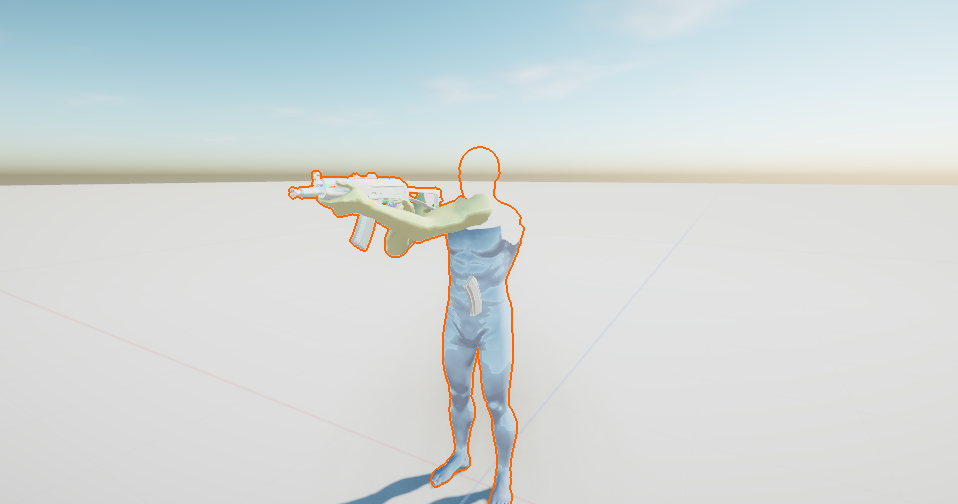
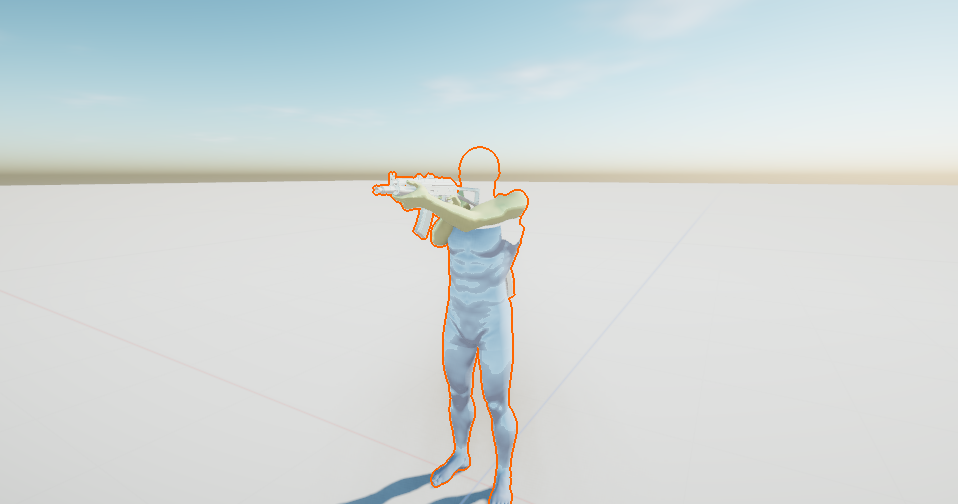
Tune camera-pivoted view rig for visible legs

Changed region(s): [[0.3027, 0.3274, 0.5752, 0.506], [0.4843, 0.5357, 0.5449, 0.625]]

diff --git a/tools/templates/SplitFirstPersonController.cs b/tools/templates/SplitFirstPersonController.cs
@@ -28,10 +28,12 @@ public class SplitFirstPersonController : MonoBehaviour
     public float movementDamping = 0.12f;
     public float maxPitch = 80f;
     public float maxYaw = 60f;
+    public float viewRigLowerOnLookDown = 0.35f;
 
     Animator bodyAnimator;
     Animator viewAnimator;
     InputActionAsset actions;
+    Vector3 viewRigBasePosition;
     float pitch;
     float yaw;
 
@@ -41,6 +43,7 @@ public class SplitFirstPersonController : MonoBehaviour
     {
         bodyAnimator = GetComponent<Animator>();
         viewAnimator = viewRig?.GetComponent<Animator>();
+        if (viewRig != null) viewRigBasePosition = viewRig.transform.localPosition;
         if (bodyAnimator == null) Debug.LogError("SplitFirstPersonController needs a body Animator.");
         if (viewAnimator == null) Debug.LogError("SplitFirstPersonController needs an assigned view-rig Animator.");
         try { actions = InputActionAsset.Load(inputActions); }
@@ -69,5 +72,11 @@ public class SplitFirstPersonController : MonoBehaviour
         pitch = Mathf.Clamp(pitch + look.y + lookKeys.y * lookKeySpeed * Time.deltaTime, -maxPitch, maxPitch);
         yaw = Mathf.Clamp(yaw + look.x + lookKeys.x * lookKeySpeed * Time.deltaTime, -maxYaw, maxYaw);
         if (cameraObject != null) cameraObject.transform.localRotation = Quaternion.Euler(pitch, yaw, 0f);
+        if (viewRig != null)
+        {
+            float down = Mathf.Clamp(-pitch / (maxPitch > 1f ? maxPitch : 1f), 0f, 1f);
+            viewRig.transform.localPosition = new Vector3(viewRigBasePosition.x,
+                viewRigBasePosition.y - viewRigLowerOnLookDown * down, viewRigBasePosition.z);
+        }
     }
 }

diff --git a/docs/animation-controller-rig-design.md b/docs/animation-controller-rig-design.md
@@ -2,7 +2,7 @@
 
 A first-person character has a **Body** Animator on the player root and a separate **View Rig** Animator under the player camera. The body owns the visible torso, pelvis, and legs and plays locomotion. The view rig owns the arms, weapon socket, and weapon meshes and plays the first-person animation. The camera remains a direct child of the player and copies the body head position; its rotation drives the child view rig around the camera pivot. An exposed local view-rig offset aligns each character's arms and weapon with that pivot. The head mesh can cast shadows without rendering inside the camera.
 
-Nested Animator ownership is a general engine rule: each Animator evaluates only skinned meshes in its own subtree up to another Animator. This supports independent character parts beyond the AK. [`SplitFirstPersonController.cs`](../tools/templates/SplitFirstPersonController.cs) is an example controller script. Its body/view/camera references, input asset and action names, locomotion parameter names, speeds, and pitch limits are configurable. It sets locomotion parameters on the body and rotates the camera; the view rig inherits that rotation through the scene hierarchy. The engine has no AK-specific movement or camera behavior.
+Nested Animator ownership is a general engine rule: each Animator evaluates only skinned meshes in its own subtree up to another Animator. This supports independent character parts beyond the AK. [`SplitFirstPersonController.cs`](../tools/templates/SplitFirstPersonController.cs) is an example controller script. Its body/view/camera references, input asset and action names, locomotion parameter names, speeds, pitch limits, and downward view-rig lowering distance are configurable. It sets locomotion parameters on the body and rotates the camera; the view rig inherits that rotation through the scene hierarchy. Looking steeply down lowers the view model within camera space so the legs remain visible. The engine has no AK-specific movement or camera behavior.
 
 The AK installer uses the existing mesh sections in the source FBX: Head and Body remain under the body rig, Arms move under the view rig, and the AK weapon stays on the view rig's weapon socket. Its offsets are setup values for this asset, not engine constants. `Prepare-SplitFirstPersonTest.ps1` copies only the source assets needed into `build/` and installs the split scene there, leaving the source project untouched.
 
